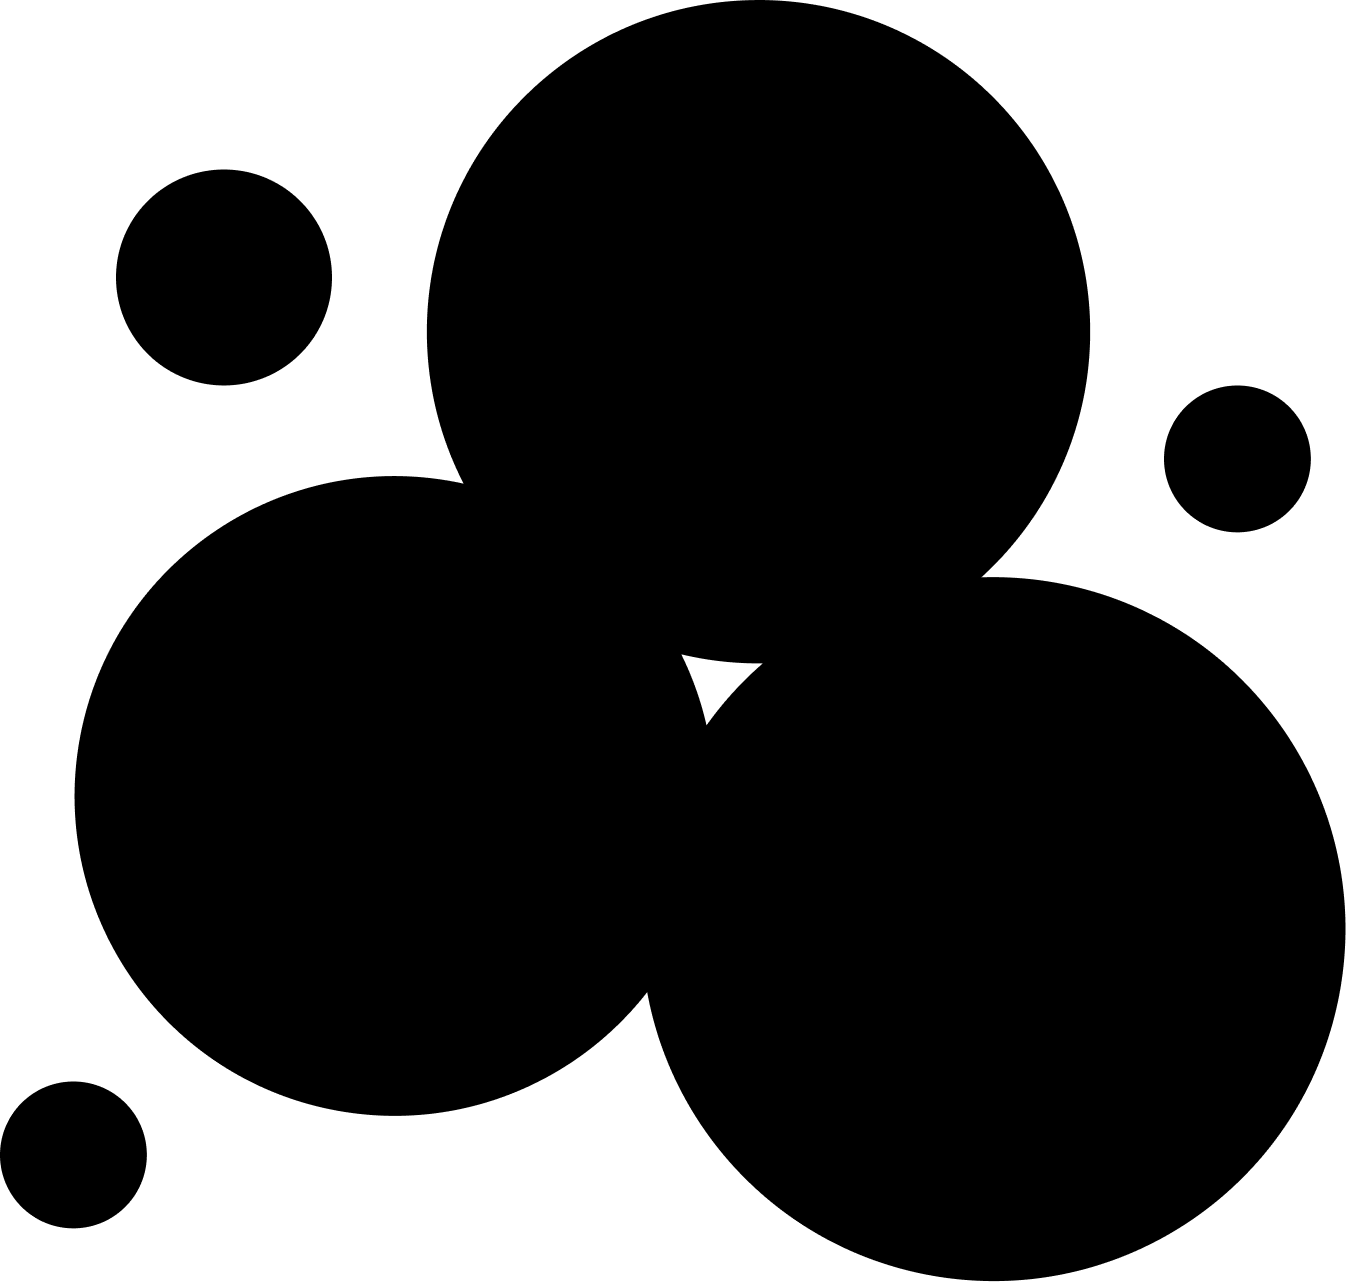
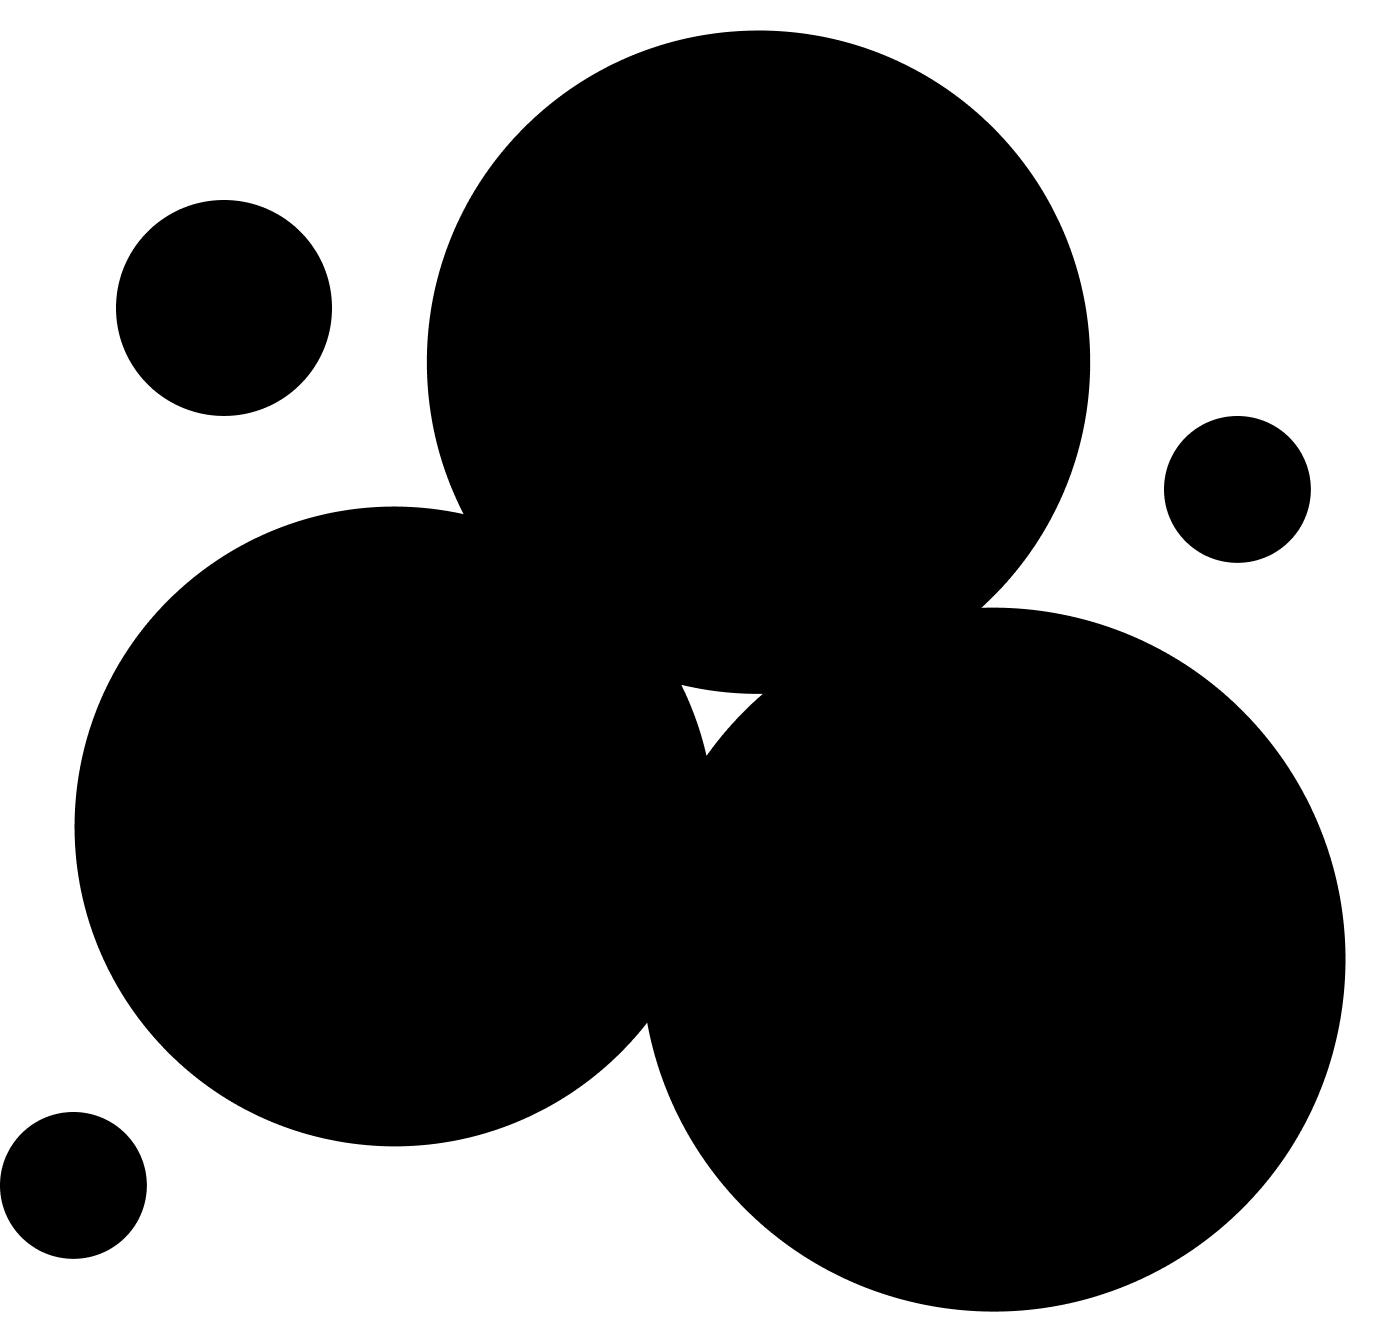
Phase 13.8: AI/DEV ④スタンダード マスクを 1376×1342 版に差し替え
旧マスク (Group 966.png 1346×1282) は線画と寸法差大きく
size/position 調整しても若干ズレが残っていた。

新マスク (Group 5.png 1376×1342) は線画 (1376×1343) とほぼ同寸
（高さ 1px 差のみ）→ size 100% 100% で完全フィット。

- public/images/sections/service/detail/concept-standard-ai-mask.png を差し替え
- ai-dev concepts[0].visual.mask:
    size '97.82% 95.46%' → '100% 100%'
    position '50% 50%' (変更なし)

実機確認: バブル内側のみに赤グロークリップされ、dashed 領域や
バブル間の余白には漏れない。

diff --git a/src/data/service-detail.ts b/src/data/service-detail.ts
@@ -213,12 +213,11 @@ const AI_DEV: ServiceDetailData = {
         width: 1376,
         height: 1343,
         // バブルシルエットのマスク（赤グローを形の中にクリップ）
-        // 線画(1376×1343) は外側 dashed border 含む / マスク(1346×1282) は bubble シルエットのみ
-        // 寸法差: 横 30px / 縦 61px → 左右 15px / 上下 30.5px の dashed margin と仮定
-        // size: 1346/1376 = 97.82%, 1282/1343 = 95.46% / position center で bubble area に被せる
+        // 線画(1376×1343) と マスク(1376×1342) はほぼ同寸（高さ1px差のみ）
+        // → size 100% 100% で線画にフィットさせる（1px の差は誤差レベルで吸収）
         mask: {
           src: '/images/sections/service/detail/concept-standard-ai-mask.png',
-          size: '97.82% 95.46%',
+          size: '100% 100%',
           position: '50% 50%',
         },
       },
